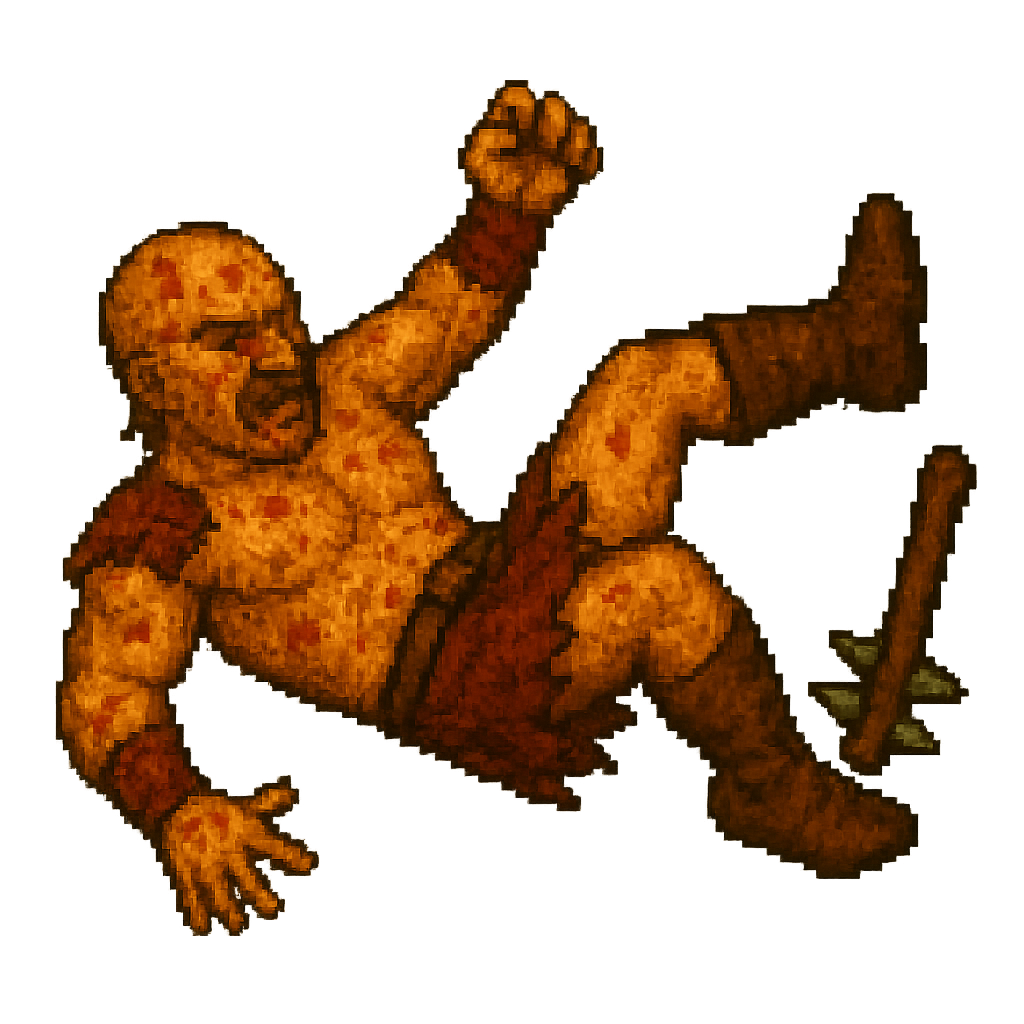
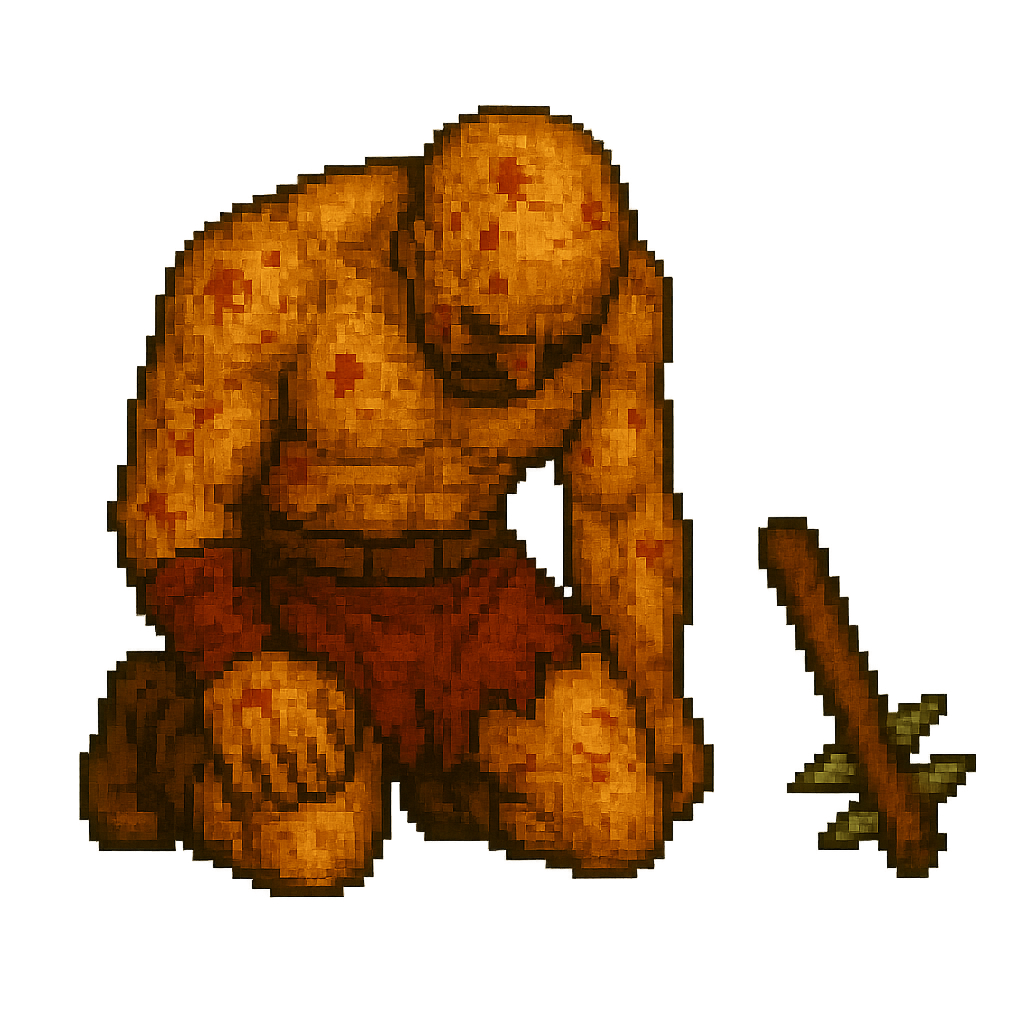
niro

diff --git a/game.js b/game.js
@@ -8,6 +8,9 @@ npcDeadImg.src = 'niro_dead.png';
 const npcInjuredImg = new Image();
 npcInjuredImg.src = 'niro_injured.png';
 
+const npcFallingImg = new Image();
+npcFallingImg.src = 'niro_falling.png';
+
 let fireVisible = false;
 
 // Generate a random map with walls (1) and paths (0)
@@ -595,35 +598,78 @@ function draw3DView() {
                 if (imgToDraw && ((imgToDraw instanceof HTMLImageElement && imgToDraw.complete && imgToDraw.naturalWidth > 0) || imgToDraw instanceof HTMLCanvasElement)) {
                     ctx.save();
                     
-                    // Add fade out effect for dead NPCs
+                    // Add falling and fade out effect for dead NPCs
                     if (sprite.data.state === 'dead') {
                         const timeSinceDeath = Date.now() - sprite.data.deathTime;
-                        const fadeStartTime = 2000; // Start fading after 2 seconds
-                        const fadeDuration = 1000;  // Fade over 1 second
-                        if (timeSinceDeath > fadeStartTime) {
-                            const fadeProgress = Math.min(1, (timeSinceDeath - fadeStartTime) / fadeDuration);
-                            ctx.globalAlpha = 1 - fadeProgress;
+                        
+                        if (timeSinceDeath < 2000) {
+                            // Calculate falling position (move down slightly)
+                            const fallProgress = timeSinceDeath / 800;
+                            const fallOffset = spriteHeight * 0.4 * fallProgress;
+                            
+                            // Apply translation for falling movement
+                            ctx.translate(screenX, spriteY + fallOffset);
+                            ctx.translate(-spriteWidth / 2, -spriteHeight / 2);
+                            
+                            // Draw the falling sprite
+                            ctx.drawImage(
+                                imgToDraw,
+                                0,
+                                0,
+                                spriteWidth,
+                                spriteHeight
+                            );
+                        } else {
+                            // Fade out effect for death animation
+                            const fadeStartTime = 2000; // Start fading after falling animation
+                            const fadeDuration = 1000;  // Fade over 1 second
+                            if (timeSinceDeath > fadeStartTime) {
+                                const fadeProgress = Math.min(1, (timeSinceDeath - fadeStartTime) / fadeDuration);
+                                ctx.globalAlpha = 1 - fadeProgress;
+                            }
+                            
+                            // Draw the death sprite
+                            if (sprite.data.isWalkingLeft) {
+                                ctx.translate(screenX + spriteWidth / 2, spriteY);
+                                ctx.scale(-1, 1);
+                                ctx.drawImage(
+                                    imgToDraw,
+                                    0,
+                                    0,
+                                    spriteWidth,
+                                    spriteHeight
+                                );
+                            } else {
+                                ctx.drawImage(
+                                    imgToDraw,
+                                    screenX - spriteWidth / 2,
+                                    spriteY,
+                                    spriteWidth,
+                                    spriteHeight
+                                );
+                            }
                         }
-                    }
-                    
-                    if (sprite.data.isWalkingLeft) {
-                        ctx.translate(screenX + spriteWidth / 2, spriteY);
-                        ctx.scale(-1, 1);
-                        ctx.drawImage(
-                            imgToDraw,
-                            0,
-                            0,
-                            spriteWidth,
-                            spriteHeight
-                        );
                     } else {
-                        ctx.drawImage(
-                            imgToDraw,
-                            screenX - spriteWidth / 2,
-                            spriteY,
-                            spriteWidth,
-                            spriteHeight
-                        );
+                        // Normal drawing for non-dead NPCs
+                        if (sprite.data.isWalkingLeft) {
+                            ctx.translate(screenX + spriteWidth / 2, spriteY);
+                            ctx.scale(-1, 1);
+                            ctx.drawImage(
+                                imgToDraw,
+                                0,
+                                0,
+                                spriteWidth,
+                                spriteHeight
+                            );
+                        } else {
+                            ctx.drawImage(
+                                imgToDraw,
+                                screenX - spriteWidth / 2,
+                                spriteY,
+                                spriteWidth,
+                                spriteHeight
+                            );
+                        }
                     }
                     ctx.restore();
                 }
@@ -1037,6 +1083,11 @@ window.addEventListener('keydown', (e) => {
             const ray = castRay(angleToNPC);
             // Only hit if the ray distance is greater than or equal to the NPC distance (no wall in between)
             if (ray.distance >= closestDist - 0.2) { // 0.2 margin for hitbox
+                // Skip if NPC is already dead
+                if (closestNPC.state === 'dead') {
+                    return;
+                }
+                
                 // Calculate damage based on weapon type
                 let damage = 0;
                 if (player.currentWeapon === 'handgun') {
@@ -1075,9 +1126,11 @@ window.addEventListener('keydown', (e) => {
                         console.error('Exception playing death sound:', e);
                     }
                     
-                    // Set death state and timer
-                    closestNPC.state = 'dead';
-                    closestNPC.deathTime = Date.now();
+                    // Set death state and timer only if not already dead
+                    if (closestNPC.state !== 'dead') {
+                        closestNPC.state = 'dead';
+                        closestNPC.deathTime = Date.now();
+                    }
                 }
             } else {
                 console.log('NPC is behind a wall, not hit');
@@ -1843,6 +1896,11 @@ npcs.push({
 function getNPCSprite(npc) {
     // Handle death state
     if (npc.state === 'dead') {
+        const timeSinceDeath = Date.now() - npc.deathTime;
+        if (timeSinceDeath < 2000) {
+            // Show falling animation for first 2 seconds
+            return npcFallingImg;
+        }
         return npcDeadImg;
     }
     
